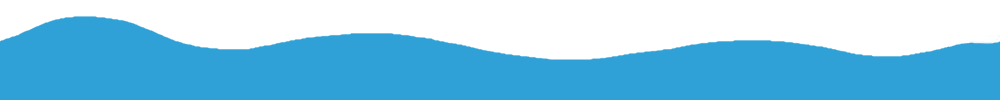
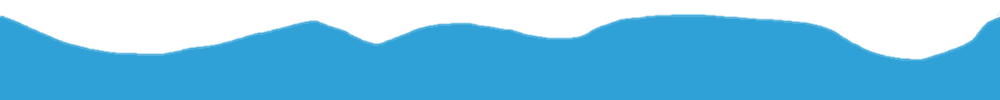
Finish parallax layers

Changed region(s): [[0.0, 0.12, 0.961, 0.63], [0.961, 0.15, 1.0, 0.45]]

diff --git a/src/App.js b/src/App.js
@@ -1,11 +1,106 @@
-import Ocean from "./components/Ocean";
 import Bio from "./components/Bio";
+import Hill from "./components/ocean/Hill";
+import Icons from "./components/Icons";
+import Lights from "./components/ocean/Lights";
+import Water from "./components/ocean/Water";
+
+import { useState, useEffect } from "react";
+import Parallax from "react-rellax";
+
+const currentWidth = () => {
+    return (
+        window.innerWidth ||
+        document.documentElement.clientWidth ||
+        document.body.clientWidth
+    );
+};
+
+const currentHeight = () => {
+    return (
+        window.innerHeight ||
+        document.documentElement.clientHeight ||
+        document.body.clientHeight
+    );
+};
 
 function App() {
+    let [width, setWidth] = useState(currentWidth());
+    let [height, setHeight] = useState(currentHeight());
+
+    useEffect(() => {
+        let widthTimeoutId = null;
+        let heightTimeoutId = null;
+        const resizeListener = () => {
+            clearTimeout(widthTimeoutId);
+            clearTimeout(heightTimeoutId);
+            widthTimeoutId = setTimeout(() => setWidth(currentWidth()), 144);
+            heightTimeoutId = setTimeout(() => setHeight(currentHeight()), 144);
+        };
+        window.addEventListener("resize", resizeListener);
+
+        return () => {
+            window.removeEventListener("resize", resizeListener);
+        };
+    }, []);
+
     return (
-        <div className="app">
-            <Ocean />
-            <Bio />
+        <div className="ocean">
+            <Parallax speed={-15}>
+                <Water width={width} height={height} />
+            </Parallax>
+
+            <Parallax speed={-12}></Parallax>
+
+            <Parallax speed={-9}>
+                <Hill
+                    width={width}
+                    height={height}
+                    imgLink="https://i.imgur.com/WMmmbjC.png"
+                    color="#4DB9E7"
+                    start={0.4}
+                />
+            </Parallax>
+
+            <Parallax speed={-6}>
+                <Hill
+                    width={width}
+                    height={height}
+                    imgLink="https://i.imgur.com/6qSjN5g.png"
+                    color="#2FA1D7"
+                    start={0.5}
+                />
+            </Parallax>
+
+            <Parallax className="ocean-name-container" speed={-12}>
+                <div className="ocean-title">JUSTIN</div>
+                <div className="ocean-title">CHANG</div>
+                <Icons />
+            </Parallax>
+
+            <Parallax speed={-3}>
+                <Hill
+                    width={width}
+                    height={height}
+                    imgLink="https://i.imgur.com/l9urhcC.png"
+                    color="#0272BA"
+                    start={0.6}
+                />
+            </Parallax>
+
+            <Parallax speed={3}>
+                <Hill
+                    width={width}
+                    height={height}
+                    imgLink="https://i.imgur.com/9uymSl7.png"
+                    color="#E8CA84"
+                    start={0.8}
+                />
+            </Parallax>
+
+            <Parallax speed={3}>
+                <Lights width={width} height={height} />
+                <Bio />
+            </Parallax>
         </div>
     );
 }

diff --git a/src/components/ocean/Hill.js b/src/components/ocean/Hill.js
@@ -1,29 +1,29 @@
 import { useEffect, useRef } from "react";
 
-function Hill2(props) {
-    const hill2Ref = useRef(null);
+function Hill(props) {
+    const hillRef = useRef(null);
 
     const drawHill = (ctx) => {
         ctx.clearRect(0, 0, props.width, props.height);
 
         const hill = new Image();
-        hill.src = "https://i.imgur.com/IuNL94m.png";
+        hill.src = props.imgLink;
         hill.onload = () => {
             let pattern = ctx.createPattern(hill, "repeat");
             ctx.fillStyle = pattern;
 
             let fillStart = 0;
-            while (fillStart < ctx.height * 0.5) {
+            while (fillStart < ctx.height * props.start) {
                 fillStart += hill.height;
             }
             ctx.fillRect(-330, fillStart, ctx.width * 2, hill.height);
-            ctx.fillStyle = "#2FA1D7";
-            ctx.fillRect(0, fillStart + hill.height, ctx.width, props.height);
+            ctx.fillStyle = props.color;
+            ctx.fillRect(0, fillStart + hill.height, ctx.width, ctx.height);
         };
     };
 
     useEffect(() => {
-        let ctx = hill2Ref.current.getContext("2d");
+        let ctx = hillRef.current.getContext("2d");
         ctx.width = props.width;
         ctx.height = props.height;
         drawHill(ctx);
@@ -31,12 +31,12 @@ function Hill2(props) {
 
     return (
         <canvas
-            ref={hill2Ref}
-            id="hill2"
+            ref={hillRef}
+            id="hill"
             width={window.innerWidth}
             height={window.innerHeight}
         />
     );
 }
 
-export default Hill2;
+export default Hill;

diff --git a/src/styles/App.scss b/src/styles/App.scss
@@ -1,0 +1,52 @@
+@import url("https://fonts.googleapis.com/css2?family=Josefin+Sans:wght@700&family=Righteous&display=swap");
+
+.ocean {
+    width: 100%;
+    height: 100vh;
+    display: flex;
+    align-items: center;
+    justify-content: center;
+
+    position: relative;
+    z-index: 0;
+
+    & > * {
+        position: absolute;
+        top: 0;
+        left: 0;
+        height: 100vh;
+        width: 100%;
+    }
+
+    $children: 8;
+    @for $i from 0 to $children {
+        & > *:nth-child(#{$i + 1}) {
+            z-index: #{- (($children)- ($i))};
+        }
+    }
+}
+
+.ocean-name-container {
+    display: flex;
+    align-items: center;
+    flex-direction: column;
+    justify-content: center;
+    z-index: -3;
+}
+
+.ocean-title {
+    color: black;
+    font-family: "Josefin Sans", sans-serif;
+    font-weight: 900;
+    font-size: 2.25rem;
+    margin-top: 0.2em;
+    font-size: 93px;
+    font-weight: 700;
+    line-height: 0.9em;
+    white-space: nowrap;
+}
+
+canvas {
+    width: 100%;
+    height: 100vh;
+}

diff --git a/src/index.js b/src/index.js
@@ -2,7 +2,7 @@ import React from "react";
 import ReactDOM from "react-dom";
 import App from "./App";
 import reportWebVitals from "./reportWebVitals";
-import "./style.scss";
+import "./styles.scss";
 
 ReactDOM.render(
     <React.StrictMode>

diff --git a/src/styles.scss b/src/styles.scss
@@ -1,5 +1,4 @@
 @import "styles/index.scss";
 @import "styles/App.scss";
 @import "styles/components/Icons.scss";
-@import "styles/components/Ocean.scss";
 @import "styles/components/Bio.scss";

diff --git a/src/styles/components/Bio.scss b/src/styles/components/Bio.scss
@@ -1,4 +1,6 @@
 .bio {
-    height: 100vh;
+    margin-top: -0.4vh;
+    height: 100.4vh;
     width: 100%;
+    background-image: linear-gradient(#e8ca84, white);
 }
